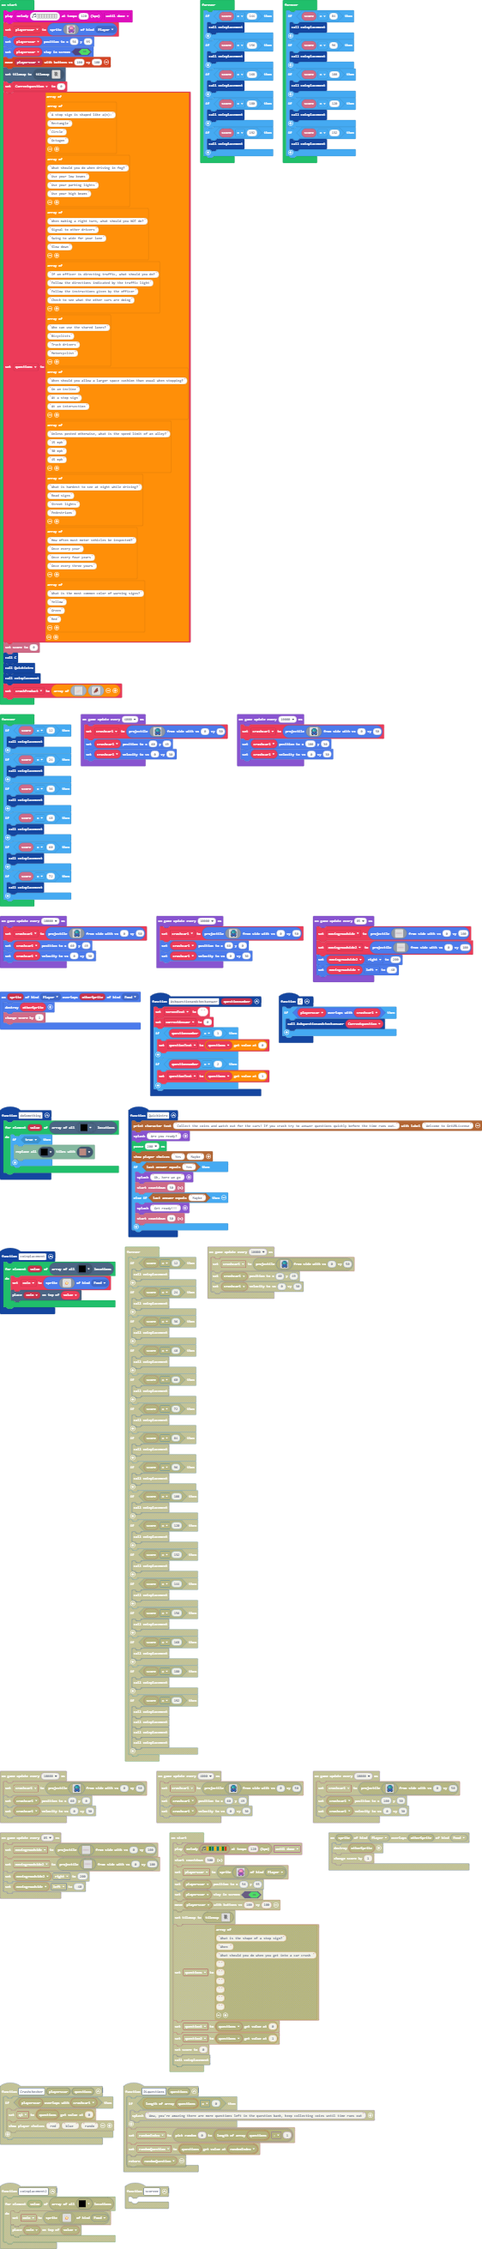
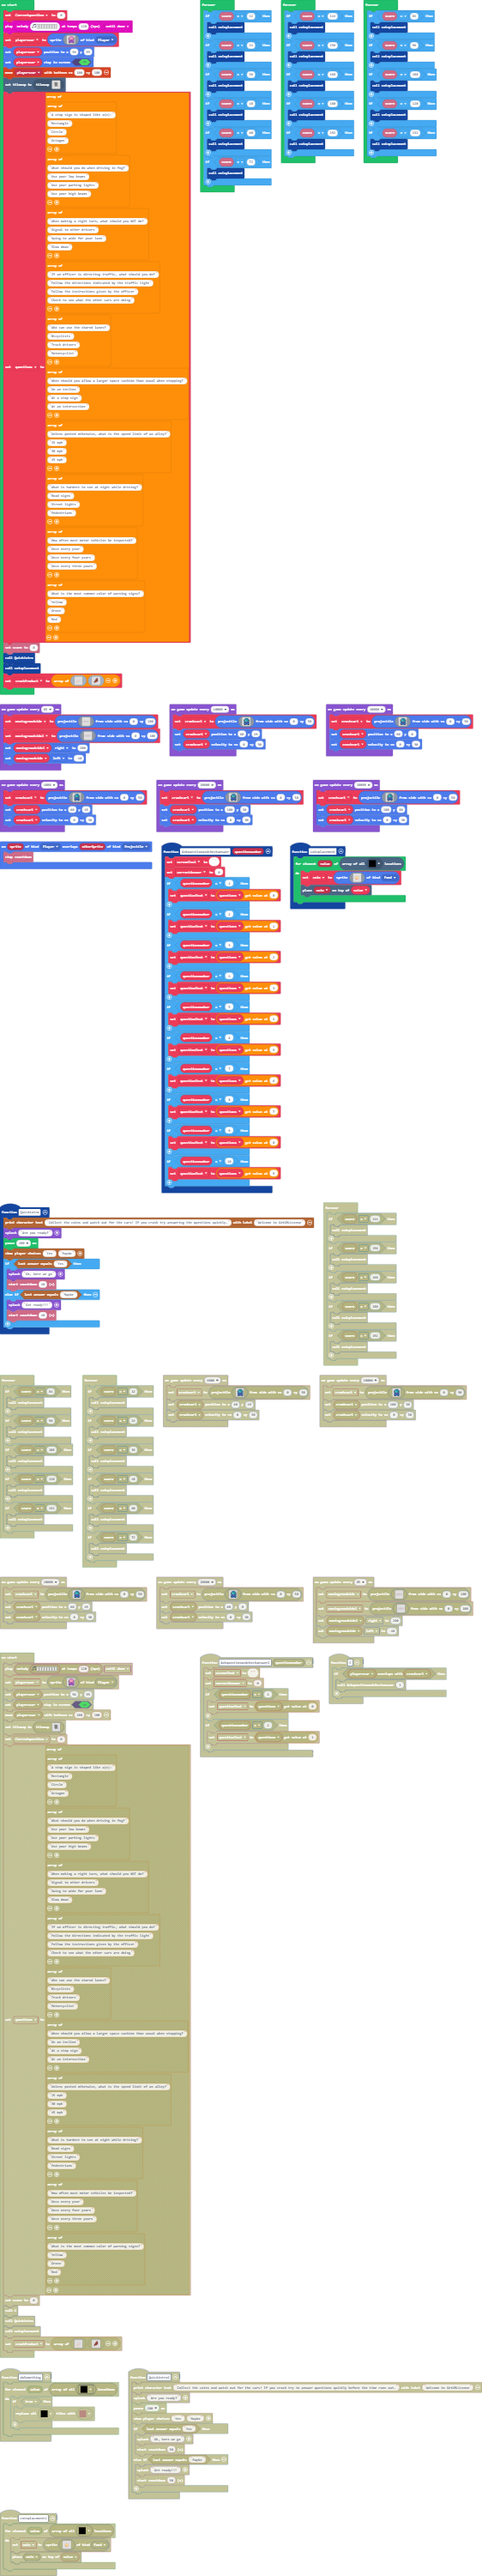
Update main.blocks, main.ts, tilemap.g.jres, tilemap.g.ts

diff --git a/main.ts b/main.ts
@@ -1,13 +1,9 @@
 namespace SpriteKind {
     export const Crashpart = SpriteKind.create()
 }
-function doSomething () {
-    for (let value of tiles.getTilesByType(assets.tile`myTile2`)) {
-        if (true) {
-            tiles.replaceAllTiles(assets.tile`myTile2`, assets.tile`myTile0`)
-        }
-    }
-}
+sprites.onOverlap(SpriteKind.Player, SpriteKind.Projectile, function (sprite, otherSprite) {
+    info.stopCountdown()
+})
 function Askquestionandcheckanswer (questionnumber: number) {
     screenText = ""
     correctAnswer = 0
@@ -16,6 +12,30 @@ function Askquestionandcheckanswer (questionnumber: number) {
     }
     if (questionnumber == 2) {
         questionText = questions[1]
+    }
+    if (questionnumber == 3) {
+        questionText = questions[2]
+    }
+    if (questionnumber == 4) {
+        questionText = questions[3]
+    }
+    if (questionnumber == 5) {
+        questionText = questions[4]
+    }
+    if (questionnumber == 6) {
+        questionText = questions[5]
+    }
+    if (questionnumber == 7) {
+        questionText = questions[6]
+    }
+    if (questionnumber == 8) {
+        questionText = questions[7]
+    }
+    if (questionnumber == 9) {
+        questionText = questions[8]
+    }
+    if (questionnumber == 10) {
+        questionText = questions[9]
     }
 }
 function coinplacement () {
@@ -45,36 +65,30 @@ sprites.onOverlap(SpriteKind.Player, SpriteKind.Food, function (sprite, otherSpr
     sprites.destroy(otherSprite)
     info.changeScoreBy(1)
 })
-function C () {
-    if (playerscar.overlapsWith(crashcar1)) {
-        Askquestionandcheckanswer(Currentquestion)
-    }
-}
 function Quickintro () {
-    story.printCharacterText("Collect the coins and watch out for the cars! If you crash try to answer questions quickly before the time runs out.", "Welcome to GetURLicense")
+    story.printCharacterText("Collect the coins and watch out for the cars! If you crash try answering the questions quickly.", "Welcome to GetURLicense")
     game.splash("Are you ready?")
     pause(200)
     story.showPlayerChoices("Yes", "Maybe")
     if (story.checkLastAnswer("Yes")) {
         game.splash("Ok, here we go")
-        info.startCountdown(30)
+        info.startCountdown(40)
     } else if (story.checkLastAnswer("Maybe")) {
         game.splash("Get ready!!!")
-        info.startCountdown(30)
+        info.startCountdown(40)
     }
 }
+let crashcar1: Sprite = null
 let movingroadside2: Sprite = null
 let movingroadside: Sprite = null
-let crashcar1: Sprite = null
 let coin: Sprite = null
 let questionText: string[] = []
 let correctAnswer = 0
 let screenText = ""
 let questions: string[][] = []
 let Currentquestion = 0
-let playerscar: Sprite = null
 music.play(music.stringPlayable("- - - - - - - - ", 120), music.PlaybackMode.UntilDone)
-playerscar = sprites.create(img`
+let playerscar = sprites.create(img`
     . . . . . . a a c c a a . . . . 
     . . . . . a 3 3 3 3 3 3 a . . . 
     . . . . 3 c 3 3 3 3 3 3 c 3 . . 
@@ -96,7 +110,6 @@ playerscar.setPosition(56, 95)
 playerscar.setStayInScreen(true)
 controller.moveSprite(playerscar, 100, 100)
 tiles.setCurrentTilemap(tilemap`level6`)
-Currentquestion = 0
 questions = [
 [
 "A stop sign is shaped like a(n):",
@@ -160,7 +173,6 @@ questions = [
 ]
 ]
 info.setScore(0)
-C()
 Quickintro()
 coinplacement()
 let crashProduct = [img`
@@ -249,6 +261,26 @@ game.onUpdateInterval(4000, function () {
     crashcar1.setVelocity(0, 30)
 })
 forever(function () {
+    if (info.score() == 12) {
+        coinplacement()
+    }
+    if (info.score() == 24) {
+        coinplacement()
+    }
+    if (info.score() == 36) {
+        coinplacement()
+    }
+    if (info.score() == 48) {
+        coinplacement()
+    }
+    if (info.score() == 60) {
+        coinplacement()
+    }
+    if (info.score() == 72) {
+        coinplacement()
+    }
+})
+forever(function () {
     if (info.score() == 144) {
         coinplacement()
     }
@@ -281,48 +313,6 @@ forever(function () {
     if (info.score() == 132) {
         coinplacement()
     }
-})
-forever(function () {
-    if (info.score() == 12) {
-        coinplacement()
-    }
-    if (info.score() == 24) {
-        coinplacement()
-    }
-    if (info.score() == 36) {
-        coinplacement()
-    }
-    if (info.score() == 48) {
-        coinplacement()
-    }
-    if (info.score() == 60) {
-        coinplacement()
-    }
-    if (info.score() == 72) {
-        coinplacement()
-    }
-})
-game.onUpdateInterval(10000, function () {
-    crashcar1 = sprites.createProjectileFromSide(img`
-        . . . . . . 8 8 c c 8 8 . . . . 
-        . . . . . 8 6 6 6 6 6 6 8 . . . 
-        . . . . 6 c 6 6 6 6 6 6 c 6 . . 
-        . . . 8 6 c 9 6 6 6 6 6 c 6 8 . 
-        . . . f 6 6 9 6 6 6 6 6 c 6 f . 
-        . . . f 6 6 9 6 6 6 6 6 6 6 f . 
-        . . . f 6 6 9 6 6 6 6 6 6 6 f . 
-        . . . f 6 c 6 9 9 6 6 6 c 6 f . 
-        . . . 8 6 c 8 c c c c 8 c 6 8 . 
-        . . . 8 6 8 c b b b b c 8 6 8 . 
-        . . . 8 6 8 b b b b b b 8 6 8 . 
-        . . . 8 8 8 8 8 8 8 8 8 8 8 8 . 
-        . . . f 8 d 8 8 8 8 8 8 d 8 f . 
-        . . . f 8 6 d 8 8 8 8 d 6 8 f . 
-        . . . f f 8 8 8 8 8 8 8 8 f f . 
-        . . . . f f . . . . . . f f . . 
-        `, 0, 50)
-    crashcar1.setPosition(100, 30)
-    crashcar1.setVelocity(0, 30)
 })
 game.onUpdateInterval(10000, function () {
     crashcar1 = sprites.createProjectileFromSide(img`
@@ -366,5 +356,49 @@ game.onUpdateInterval(10000, function () {
         . . . . f f . . . . . . f f . . 
         `, 0, 50)
     crashcar1.setPosition(60, 0)
+    crashcar1.setVelocity(0, 30)
+})
+game.onUpdateInterval(10000, function () {
+    crashcar1 = sprites.createProjectileFromSide(img`
+        . . . . . . 8 8 c c 8 8 . . . . 
+        . . . . . 8 6 6 6 6 6 6 8 . . . 
+        . . . . 6 c 6 6 6 6 6 6 c 6 . . 
+        . . . 8 6 c 9 6 6 6 6 6 c 6 8 . 
+        . . . f 6 6 9 6 6 6 6 6 c 6 f . 
+        . . . f 6 6 9 6 6 6 6 6 6 6 f . 
+        . . . f 6 6 9 6 6 6 6 6 6 6 f . 
+        . . . f 6 c 6 9 9 6 6 6 c 6 f . 
+        . . . 8 6 c 8 c c c c 8 c 6 8 . 
+        . . . 8 6 8 c b b b b c 8 6 8 . 
+        . . . 8 6 8 b b b b b b 8 6 8 . 
+        . . . 8 8 8 8 8 8 8 8 8 8 8 8 . 
+        . . . f 8 d 8 8 8 8 8 8 d 8 f . 
+        . . . f 8 6 d 8 8 8 8 d 6 8 f . 
+        . . . f f 8 8 8 8 8 8 8 8 f f . 
+        . . . . f f . . . . . . f f . . 
+        `, 0, 50)
+    crashcar1.setPosition(100, 30)
+    crashcar1.setVelocity(0, 30)
+})
+game.onUpdateInterval(10000, function () {
+    crashcar1 = sprites.createProjectileFromSide(img`
+        . . . . . . 8 8 c c 8 8 . . . . 
+        . . . . . 8 6 6 6 6 6 6 8 . . . 
+        . . . . 6 c 6 6 6 6 6 6 c 6 . . 
+        . . . 8 6 c 9 6 6 6 6 6 c 6 8 . 
+        . . . f 6 6 9 6 6 6 6 6 c 6 f . 
+        . . . f 6 6 9 6 6 6 6 6 6 6 f . 
+        . . . f 6 6 9 6 6 6 6 6 6 6 f . 
+        . . . f 6 c 6 9 9 6 6 6 c 6 f . 
+        . . . 8 6 c 8 c c c c 8 c 6 8 . 
+        . . . 8 6 8 c b b b b c 8 6 8 . 
+        . . . 8 6 8 b b b b b b 8 6 8 . 
+        . . . 8 8 8 8 8 8 8 8 8 8 8 8 . 
+        . . . f 8 d 8 8 8 8 8 8 d 8 f . 
+        . . . f 8 6 d 8 8 8 8 d 6 8 f . 
+        . . . f f 8 8 8 8 8 8 8 8 f f . 
+        . . . . f f . . . . . . f f . . 
+        `, 0, 50)
+    crashcar1.setPosition(100, 80)
     crashcar1.setVelocity(0, 30)
 })

diff --git a/tilemap.g.ts b/tilemap.g.ts
@@ -106,6 +106,25 @@ namespace myTiles {
 2 2 2 . . . . 2 2 2 
 2 2 2 . . . . 2 2 2 
 `, [myTiles.transparency16,myTiles.tile1,myTiles.tile4], TileScale.Sixteen);
+            case "level7":
+            case "level7":return tiles.createTilemap(hex`1000100000000000000000000000000000000000000000000000000000000000000000000000000000000000000000000000000000000000000000000000000000000000000000000000000000000000000000000000000000000000000000000000000000000000000000000000000000000000000000000000000000000000000000000000000000000000000000000000000000000000000000000000000000000000000000000000000000000000000000000000000000000000000000000000000000000000000000000000000000000000000000000000000000000000000000000000000000000000000000000000000000000000000000000000000000000000`, img`
+. . . . . . . . . . . . . . . . 
+. . . . . . . . . . . . . . . . 
+. . . . . . . . . . . . . . . . 
+. . . . . . . . . . . . . . . . 
+. . . . . . . . . . . . . . . . 
+. . . . . . . . . . . . . . . . 
+. . . . . . . . . . . . . . . . 
+. . . . . . . . . . . . . . . . 
+. . . . . . . . . . . . . . . . 
+. . . . . . . . . . . . . . . . 
+. . . . . . . . . . . . . . . . 
+. . . . . . . . . . . . . . . . 
+. . . . . . . . . . . . . . . . 
+. . . . . . . . . . . . . . . . 
+. . . . . . . . . . . . . . . . 
+. . . . . . . . . . . . . . . . 
+`, [myTiles.transparency16], TileScale.Sixteen);
         }
         return null;
     })
